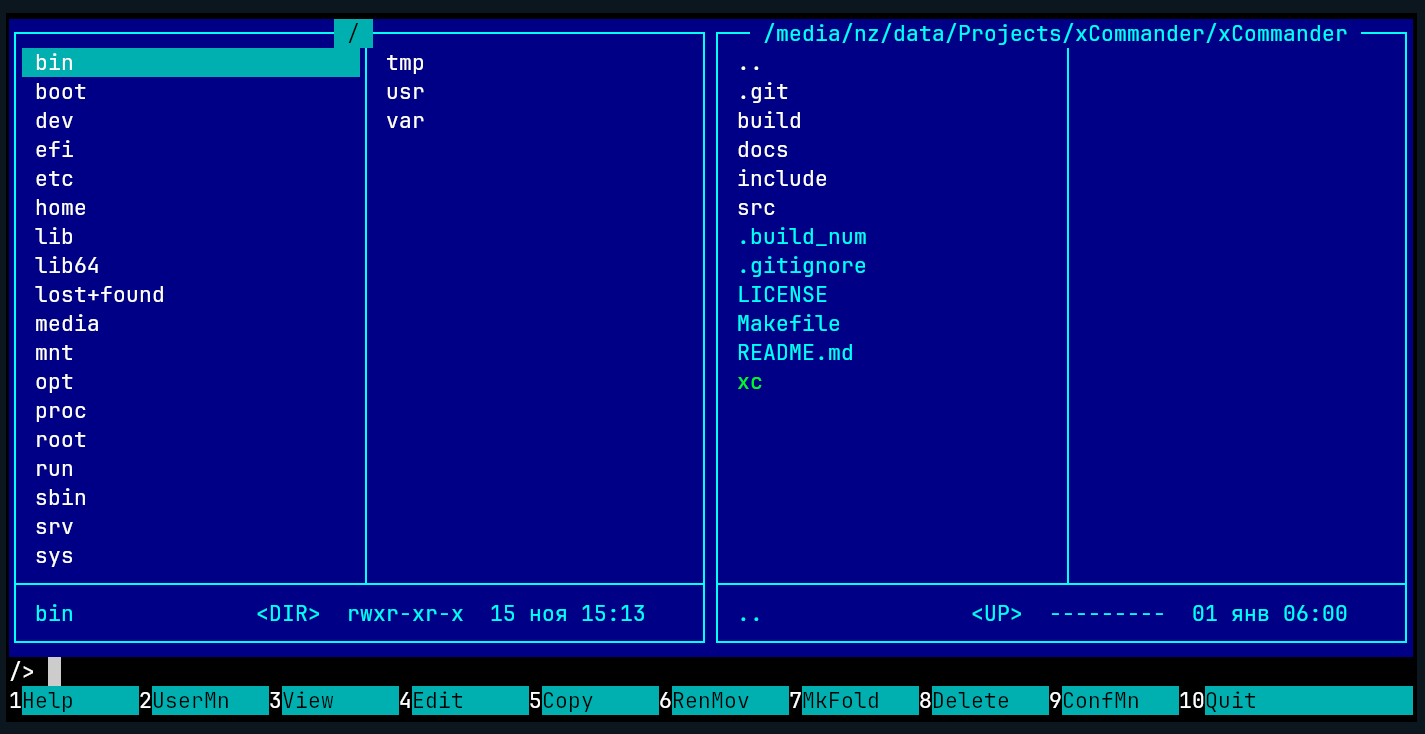
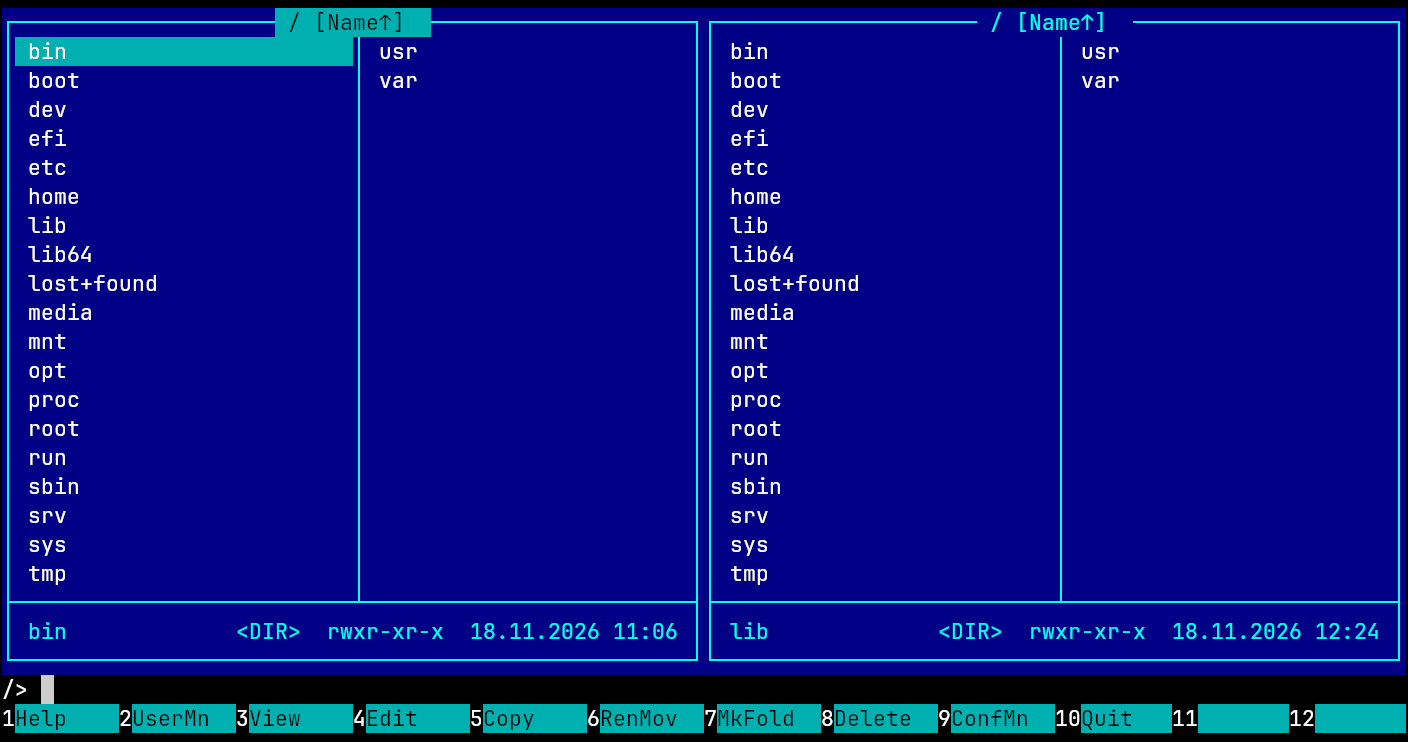
348

Changed region(s): [[0.0, 0.0, 1.0, 1.0]]

diff --git a/src/main.c b/src/main.c
@@ -893,7 +893,7 @@ int main(int argc, char **argv) {
 				if (strcmp(last_prompt_dir, active_panel->current_path) != 0) {
 					snprintf(last_prompt_dir, sizeof(last_prompt_dir), "%s", active_panel->current_path);
 					print_term_prompt_ex(cmd_wbuf, 1);
-				} else if (cmd_len > 0) {
+				} else {
 					print_term_prompt_ex(cmd_wbuf, 0);
 				}
 			} else {
